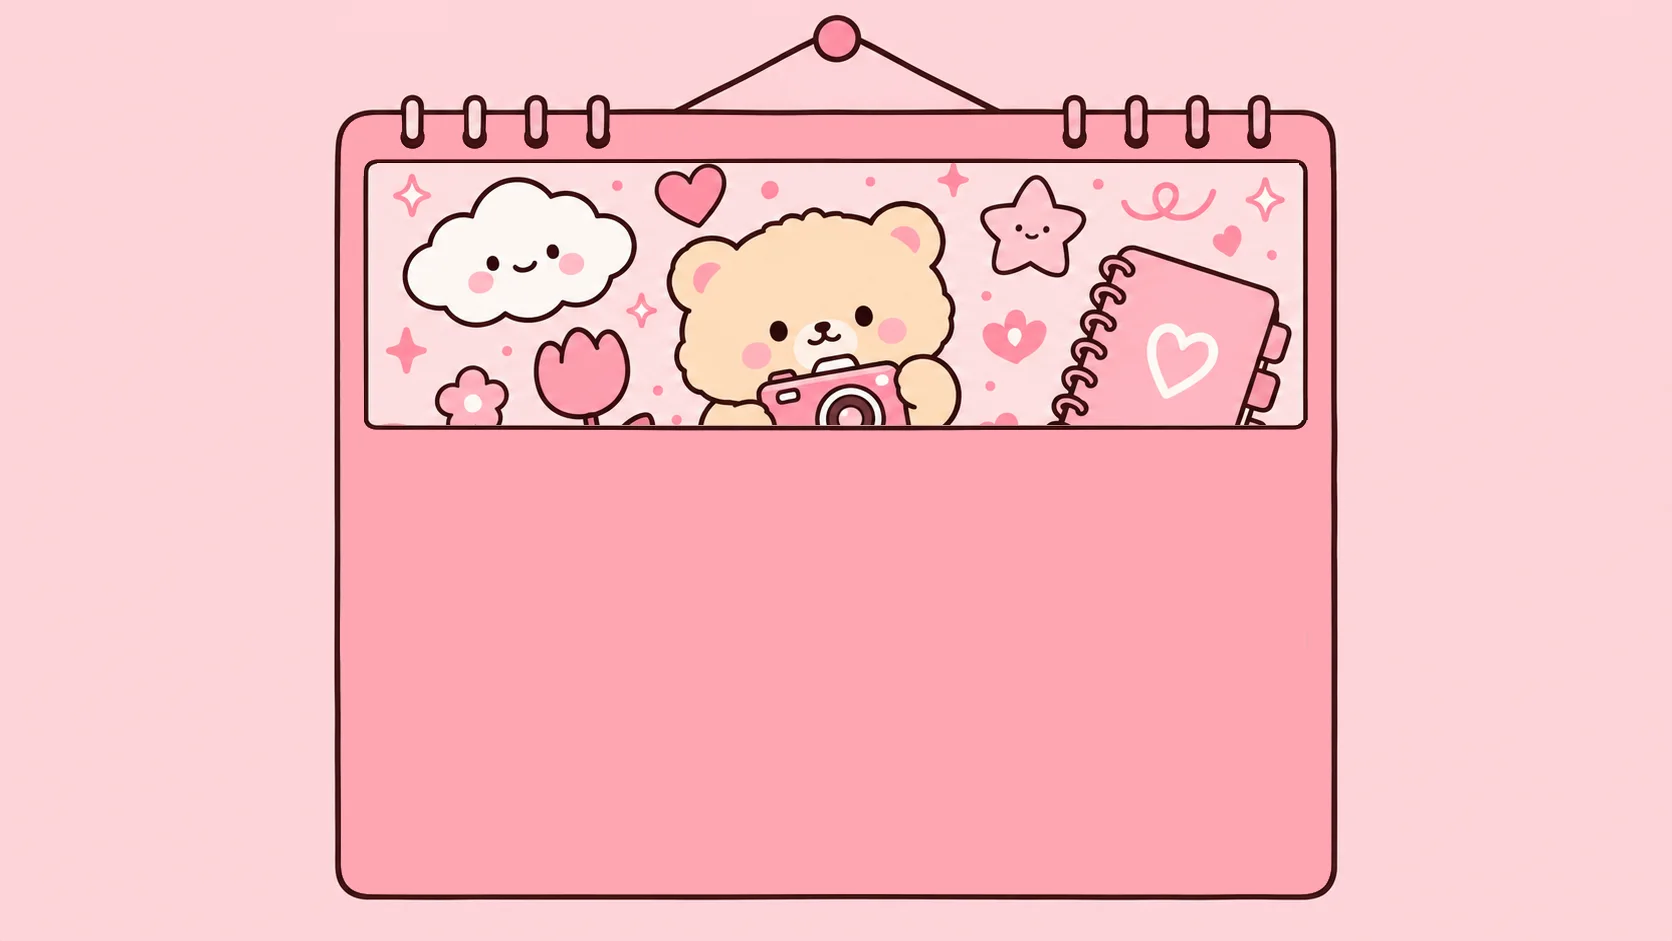
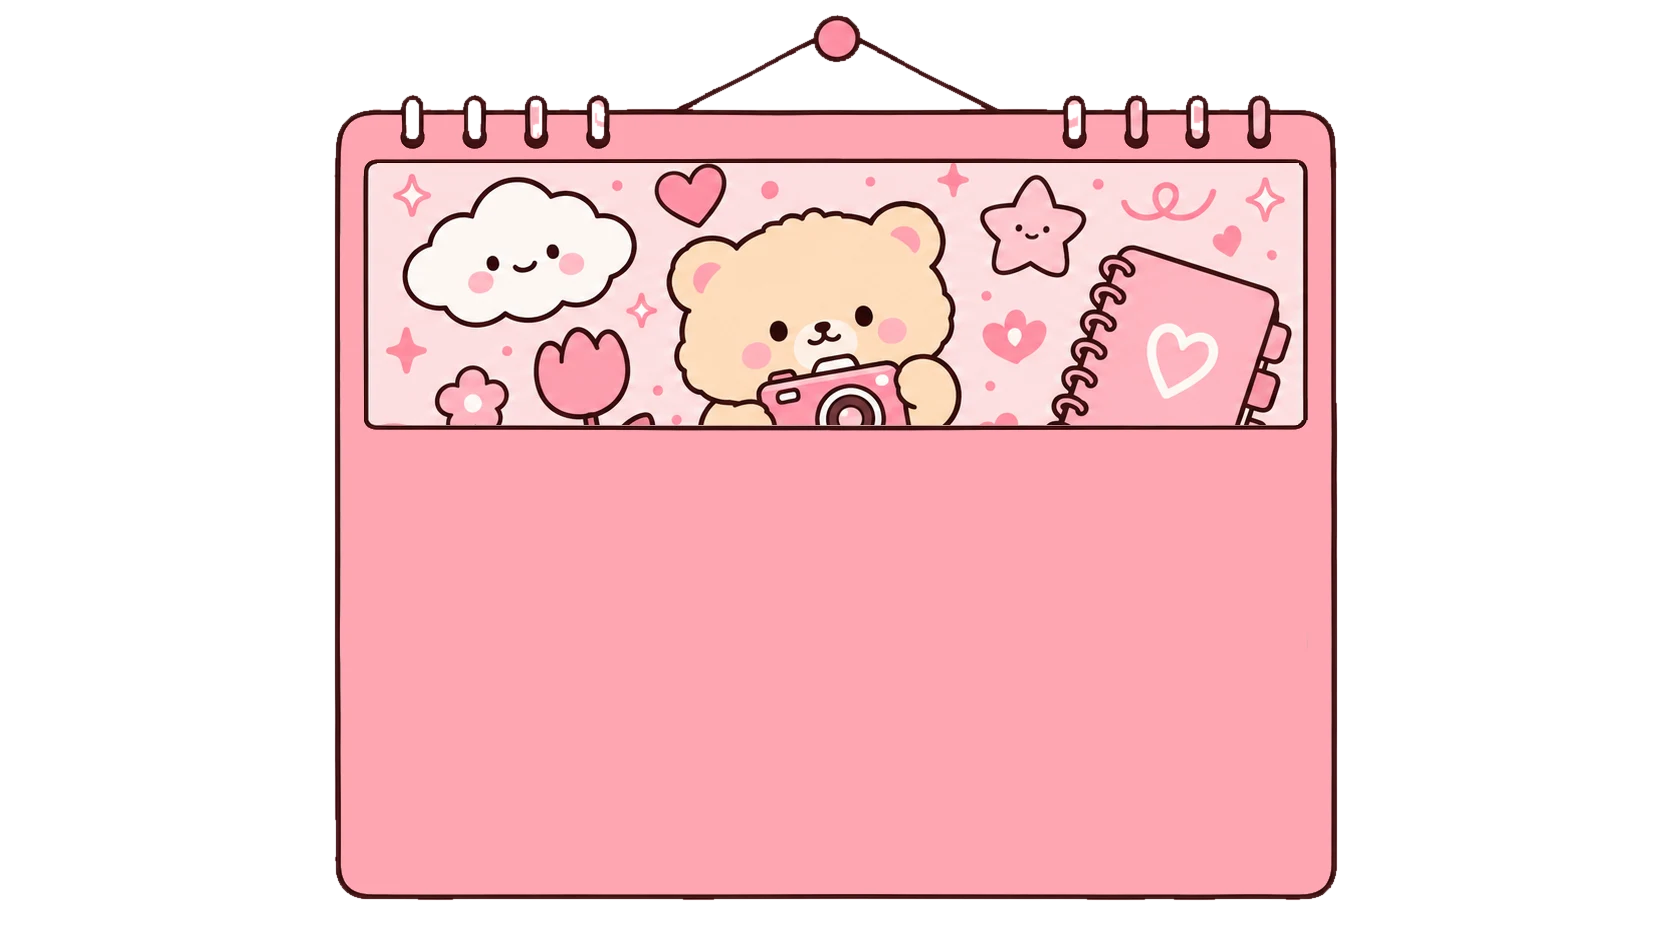
Add files via upload

diff --git a/index.html b/index.html
@@ -18,14 +18,14 @@
     <!-- html2canvas (PNG 저장용) -->
     <script src="https://cdnjs.cloudflare.com/ajax/libs/html2canvas/1.4.1/html2canvas.min.js"></script>
 
-    <script src="js/features.js?v=20261009-998"></script>   <!-- 🔓 기능 공개 스위치 (다른 것보다 먼저) -->
-    <script src="js/util.js?v=20261009-998"></script>   <!-- 🧰 공용 도구 (htmlEsc · josa · lsGet · lsSet) -->
+    <script src="js/features.js?v=20261009-999"></script>   <!-- 🔓 기능 공개 스위치 (다른 것보다 먼저) -->
+    <script src="js/util.js?v=20261009-999"></script>   <!-- 🧰 공용 도구 (htmlEsc · josa · lsGet · lsSet) -->
     <link rel="preload" as="image" href="img/gate-wide.webp?v=20261009-819" media="(min-aspect-ratio: 1/1)">   <!-- 🚪 로그인 문 그림을 먼저 받아요 (켤 때 바탕색만 잠깐 보이는 것 줄이기 · 도련 10-29) -->
     <link rel="preload" as="image" href="img/gate-tall.webp?v=20261009-819" media="(max-aspect-ratio: 1/1)">
-    <link rel="stylesheet" href="css/style.css?v=20261009-998">
-    <link rel="stylesheet" href="css/dakku.css?v=20261009-998">
-    <link rel="stylesheet" href="css/anime.css?v=20261009-998">
-    <link rel="stylesheet" href="css/calroom.css?v=20261009-998">   <!-- 📅 달력 (💻 📲 · js/calroom.js) -->   <!-- 🎬 애니 스타일 (맨 뒤 · js/anime.js) -->
+    <link rel="stylesheet" href="css/style.css?v=20261009-999">
+    <link rel="stylesheet" href="css/dakku.css?v=20261009-999">
+    <link rel="stylesheet" href="css/anime.css?v=20261009-999">
+    <link rel="stylesheet" href="css/calroom.css?v=20261009-999">   <!-- 📅 달력 (💻 📲 · js/calroom.js) -->   <!-- 🎬 애니 스타일 (맨 뒤 · js/anime.js) -->
     <script src="https://accounts.google.com/gsi/client" async defer></script>
 </head>
 <body>
@@ -967,113 +967,113 @@
     </div>
 
     <!-- 📦 코드 파일 (순서 중요 · 업데이트할 때 ?v= 뒤 숫자를 바꾸면 모든 사용자가 새 파일을 받아요) -->
-    <script src="js/localtest.js?v=20261009-998"></script>   <!-- 💻 내 컴퓨터(localhost)에서만 : 로그인 없이 테스트 -->
-    <script src="js/trash.js?v=20261009-998"></script>   <!-- 🗑 휴지통 : 지운 것 · 덮어쓰기 전 모습 30일 -->
-    <script src="js/backup.js?v=20261009-998"></script>   <!-- 📦 백업 · 📥 불러오기 : 말랑달콤 폴더 통째로 zip -->
-    <script src="js/devsave.js?v=20261009-998"></script>   <!-- 📁 로그인 없이 : 이 기기의 말랑달콤 폴더에 저장 -->
-    <script src="js/drive.js?v=20261009-998"></script>
-    <script src="js/desk.js?v=20261009-998"></script>   <!-- 🪑 책상 꾸미기 (💻 PC · 아이패드만) -->
-    <script src="js/deskpaint.js?v=20261009-998"></script>
-    <script src="js/deskcustom.js?v=20261009-998"></script>   <!-- 🎨 소품 꾸미기 창 (색칠 + 불빛 · 숫자 · 알람 · 사진 · 누르는 곳) -->   <!-- 🎨 책상 소품 꾸미기 (칠하기 · 이미지 붙이기) -->
-    <script src="js/coll.js?v=20261009-998"></script>
-    <script src="js/sound.js?v=20261009-998"></script>
-    <script src="js/app.js?v=20261009-998"></script>
-    <script src="js/page.js?v=20261009-998"></script>
-    <script src="js/elements.js?v=20261009-998"></script>
-    <script src="js/tapmenu.js?v=20261009-998"></script>
-    <script src="js/settings.js?v=20261009-998"></script>
-    <script src="js/patterns.js?v=20261009-998"></script>
+    <script src="js/localtest.js?v=20261009-999"></script>   <!-- 💻 내 컴퓨터(localhost)에서만 : 로그인 없이 테스트 -->
+    <script src="js/trash.js?v=20261009-999"></script>   <!-- 🗑 휴지통 : 지운 것 · 덮어쓰기 전 모습 30일 -->
+    <script src="js/backup.js?v=20261009-999"></script>   <!-- 📦 백업 · 📥 불러오기 : 말랑달콤 폴더 통째로 zip -->
+    <script src="js/devsave.js?v=20261009-999"></script>   <!-- 📁 로그인 없이 : 이 기기의 말랑달콤 폴더에 저장 -->
+    <script src="js/drive.js?v=20261009-999"></script>
+    <script src="js/desk.js?v=20261009-999"></script>   <!-- 🪑 책상 꾸미기 (💻 PC · 아이패드만) -->
+    <script src="js/deskpaint.js?v=20261009-999"></script>
+    <script src="js/deskcustom.js?v=20261009-999"></script>   <!-- 🎨 소품 꾸미기 창 (색칠 + 불빛 · 숫자 · 알람 · 사진 · 누르는 곳) -->   <!-- 🎨 책상 소품 꾸미기 (칠하기 · 이미지 붙이기) -->
+    <script src="js/coll.js?v=20261009-999"></script>
+    <script src="js/sound.js?v=20261009-999"></script>
+    <script src="js/app.js?v=20261009-999"></script>
+    <script src="js/page.js?v=20261009-999"></script>
+    <script src="js/elements.js?v=20261009-999"></script>
+    <script src="js/tapmenu.js?v=20261009-999"></script>
+    <script src="js/settings.js?v=20261009-999"></script>
+    <script src="js/patterns.js?v=20261009-999"></script>
     <!-- 🌟 카페에서 받아 등록한 사용자 패턴 (pattern-tool.html 로 만들어요 · 없거나 깨져도 다이어리는 정상 동작) -->
     <script src="js/community-patterns.js"></script>
     <!-- 🌟 카페에서 받아 등록한 모두의 스킨 (pattern-tool.html 로 만들어요 · 없거나 깨져도 다이어리는 정상 동작) -->
     <script src="js/community-skins.js"></script>
-    <script src="js/pattern-recipe.js?v=20261009-998"></script>
-    <script src="js/skins.js?v=20261009-998"></script>
-    <script src="js/bin.js?v=20261009-998"></script>   <!-- 🗑 버린 상품 : 휴지통 30일 · 되살리기 · 영구 삭제 (모든 상품 공통) -->
-    <script src="js/dyyear.js?v=20261009-998"></script>
-    <script src="js/bgown.js?v=20261009-998"></script>
-    <script src="js/deskskin.js?v=20261009-998"></script>   <!-- 🧱 벽지 · 🪵 책상 (책상 화면 · 샵 책상 소품 · 소품함) -->   <!-- 🌈 배경지 = 상품 (샵에서 받기 · 보관함 · 버리기) -->   <!-- 📔 기본 다이어리 = 1년짜리 날짜 다이어리 · 해마다 기본상품 샵에서 받기 · 다이어리 보관소 -->
-    <script src="js/dkguide.js?v=20261009-998"></script>   <!-- 🩷 처음 쓰는 사람용 다꾸하는 법 메모 -->
-    <script src="js/dymaker.js?v=20261009-998"></script>
-    <script src="js/pattern-maker.js?v=20261009-998"></script>
-    <script src="js/skinstudio.js?v=20261009-998"></script>
-    <script src="js/theme-skins.js?v=20261009-998"></script>
-    <script src="js/doll-art.js?v=20261009-998"></script>
-    <script src="js/doll-render.js?v=20261009-998"></script>
-    <script src="js/doll-store.js?v=20261009-998"></script>
-    <script src="js/doll-room.js?v=20261009-998"></script>
-    <script src="js/doll-move.js?v=20261009-998"></script>
-    <script src="js/glrun.js?v=20261009-998"></script>
-    <script src="js/char-move.js?v=20261009-998"></script>
-    <script src="js/puppet.js?v=20261009-998"></script>
-    <script src="js/service.js?v=20261009-998"></script>
+    <script src="js/pattern-recipe.js?v=20261009-999"></script>
+    <script src="js/skins.js?v=20261009-999"></script>
+    <script src="js/bin.js?v=20261009-999"></script>   <!-- 🗑 버린 상품 : 휴지통 30일 · 되살리기 · 영구 삭제 (모든 상품 공통) -->
+    <script src="js/dyyear.js?v=20261009-999"></script>
+    <script src="js/bgown.js?v=20261009-999"></script>
+    <script src="js/deskskin.js?v=20261009-999"></script>   <!-- 🧱 벽지 · 🪵 책상 (책상 화면 · 샵 책상 소품 · 소품함) -->   <!-- 🌈 배경지 = 상품 (샵에서 받기 · 보관함 · 버리기) -->   <!-- 📔 기본 다이어리 = 1년짜리 날짜 다이어리 · 해마다 기본상품 샵에서 받기 · 다이어리 보관소 -->
+    <script src="js/dkguide.js?v=20261009-999"></script>   <!-- 🩷 처음 쓰는 사람용 다꾸하는 법 메모 -->
+    <script src="js/dymaker.js?v=20261009-999"></script>
+    <script src="js/pattern-maker.js?v=20261009-999"></script>
+    <script src="js/skinstudio.js?v=20261009-999"></script>
+    <script src="js/theme-skins.js?v=20261009-999"></script>
+    <script src="js/doll-art.js?v=20261009-999"></script>
+    <script src="js/doll-render.js?v=20261009-999"></script>
+    <script src="js/doll-store.js?v=20261009-999"></script>
+    <script src="js/doll-room.js?v=20261009-999"></script>
+    <script src="js/doll-move.js?v=20261009-999"></script>
+    <script src="js/glrun.js?v=20261009-999"></script>
+    <script src="js/char-move.js?v=20261009-999"></script>
+    <script src="js/puppet.js?v=20261009-999"></script>
+    <script src="js/service.js?v=20261009-999"></script>
     <!-- 🎁 랜덤박스 (없어도 다이어리는 정상 동작) -->
-    <script src="js/gacha.js?v=20261009-998"></script>
-    <script src="js/presence.js?v=20261009-998"></script>
-    <script src="js/fbase.js?v=20261009-998"></script>   <!-- 🔥 파이어스토어 연결 (🔔 선물 벨 · 📞 전화기) -->
-    <script src="js/fphone.js?v=20261009-998"></script>   <!-- 📞 반짝이 피처폰 메신저 (로그인 회원끼리) -->
+    <script src="js/gacha.js?v=20261009-999"></script>
+    <script src="js/presence.js?v=20261009-999"></script>
+    <script src="js/fbase.js?v=20261009-999"></script>   <!-- 🔥 파이어스토어 연결 (🔔 선물 벨 · 📞 전화기) -->
+    <script src="js/fphone.js?v=20261009-999"></script>   <!-- 📞 반짝이 피처폰 메신저 (로그인 회원끼리) -->
     <!-- 🎵 배경음악 (없어도 다이어리는 정상 동작) -->
-    <script src="js/bgm.js?v=20261009-998"></script>
+    <script src="js/bgm.js?v=20261009-999"></script>
     <!-- 🔮 포춘카드 (없어도 다이어리는 정상 동작) -->
-    <script src="js/fortune.js?v=20261009-998"></script>
+    <script src="js/fortune.js?v=20261009-999"></script>
     <!-- 🕹 오락실 (없어도 다이어리는 정상 동작) -->
-    <script src="js/arcade.js?v=20261009-998"></script>
-    <script src="js/hof.js?v=20261009-998"></script>
+    <script src="js/arcade.js?v=20261009-999"></script>
+    <script src="js/hof.js?v=20261009-999"></script>
     <!-- 🌙 꿈해몽 (상징 사전 js/dream-data.js 는 꿈해몽을 열 때 불러와요 · 없어도 다이어리는 정상 동작) -->
-    <script src="js/ritual.js?v=20261009-998"></script>
-    <script src="js/dream.js?v=20261009-998"></script>
+    <script src="js/ritual.js?v=20261009-999"></script>
+    <script src="js/dream.js?v=20261009-999"></script>
     <!-- 🎍 토정비결 (음력 계산 js/lib/korean-lunar-calendar.min.js 는 토정비결을 열 때 불러와요 · 없어도 다이어리는 정상 동작) -->
-    <script src="js/tojeong.js?v=20261009-998"></script>
-    <script src="js/plant.js?v=20261009-998"></script>
-    <script src="js/capsule-stickers.js?v=20261009-998"></script>
-    <script src="js/attend.js?v=20261009-998"></script>
-    <script src="js/luck.js?v=20261009-998"></script>
-    <script src="js/question-data.js?v=20261009-998"></script>
-    <script src="js/question.js?v=20261009-998"></script>
-    <script src="js/tape.js?v=20261009-998"></script>
-    <script src="js/paper.js?v=20261009-998"></script>
-    <script src="js/leafpad.js?v=20261009-998"></script>
-    <script src="js/leafmaker.js?v=20261009-998"></script>
-    <script src="js/draw.js?v=20261009-998"></script>
-    <script src="js/pencase.js?v=20261009-998"></script>
-    <script src="js/frame.js?v=20261009-998"></script>
-    <script src="js/season-data.js?v=20261009-998"></script>
-    <script src="js/season.js?v=20261009-998"></script>
-    <script src="js/lock.js?v=20261009-998"></script>
-    <script src="js/cycle.js?v=20261009-998"></script>
-    <script src="js/month.js?v=20261009-998"></script>
-    <script src="js/stamp.js?v=20261009-998"></script>
-    <script src="js/search.js?v=20261009-998"></script>
-    <script src="js/dday.js?v=20261009-998"></script>
-    <script src="js/calroom.js?v=20261009-998"></script>   <!-- 📅 달력 : 출석 · 생리 · D-day 한 장 (💻 📲) -->
-    <script src="js/show.js?v=20261009-998"></script>
-    <script src="js/press.js?v=20261009-998"></script>
-    <script src="js/photobooth.js?v=20261009-998"></script>
-    <script src="js/stickermaker.js?v=20261009-998"></script>
-    <script src="js/stickerpeel.js?v=20261009-998"></script>
-    <script src="js/stkedit.js?v=20261009-998"></script>   <!-- 🎨 스티커 다듬기 : 씰 종이에서 떼기 전에 색 · 뒤집기 · 자르기 · 지우개 · 글씨 · 반짝이 -->
-    <script src="js/stkcut.js?v=20261009-998"></script>   <!-- ✂ 스티커 자르기 : 꾹 누르기 메뉴 → 스티커 칼로 가로질러 그어 두 조각 -->
-    <script src="js/ruler.js?v=20261009-998"></script>   <!-- 📏 자 : 연필꽂이에서 뽑아 페이지에 깔아 둬요 · 칼 · 색연필을 대면 반듯하게 · 진짜 cm -->
-    <script src="js/piecebag.js?v=20261009-998"></script>
-    <script src="js/dakku.js?v=20261009-998"></script>
-    <script src="js/papermaker.js?v=20261009-998"></script>
-    <script src="js/stk-basic.js?v=20261009-998"></script>
-    <script src="js/peelfx.js?v=20261009-998"></script>
-    <script src="js/tapemaker.js?v=20261009-998"></script>
-    <script src="js/sharebox.js?v=20261009-998"></script>
-    <script src="js/namematch.js?v=20261009-998"></script>
-    <script src="js/psytest-data.js?v=20261009-998"></script>
-    <script src="js/psytest.js?v=20261009-998"></script>
-    <script src="js/letter.js?v=20261009-998"></script>
-    <script src="js/install.js?v=20261009-998"></script>
-    <script src="js/piggy.js?v=20261009-998"></script>
-    <script src="js/wall.js?v=20261009-998"></script>
-    <script src="js/arrival.js?v=20261009-998"></script>
-    <script src="js/own.js?v=20261009-998"></script>   <!-- 🎒 유한 스티커 : 내 종이 저장 · 한 번 쓰면 영원히 사라져요 -->
-    <script src="js/basket.js?v=20261009-998"></script>   <!-- 🧺 내 바구니 · 🏪 기본상품 샵 -->
-    <script src="js/itemshare.js?v=20261009-998"></script>   <!-- 📤 공유 파일로 저장 · 📥 불러오기 (받으면 그 계정의 새 1개) -->
-    <script src="js/shopscene.js?v=20261009-998"></script>
-    <script src="js/anime.js?v=20261009-998"></script>   <!-- 🎬 애니 스타일 : SVG 그림을 단색 · 파스텔 선으로 (css/anime.css) -->   <!-- 🏪 기본상품 샵 가게 (문 → 연핑크 → 가게 안) -->
+    <script src="js/tojeong.js?v=20261009-999"></script>
+    <script src="js/plant.js?v=20261009-999"></script>
+    <script src="js/capsule-stickers.js?v=20261009-999"></script>
+    <script src="js/attend.js?v=20261009-999"></script>
+    <script src="js/luck.js?v=20261009-999"></script>
+    <script src="js/question-data.js?v=20261009-999"></script>
+    <script src="js/question.js?v=20261009-999"></script>
+    <script src="js/tape.js?v=20261009-999"></script>
+    <script src="js/paper.js?v=20261009-999"></script>
+    <script src="js/leafpad.js?v=20261009-999"></script>
+    <script src="js/leafmaker.js?v=20261009-999"></script>
+    <script src="js/draw.js?v=20261009-999"></script>
+    <script src="js/pencase.js?v=20261009-999"></script>
+    <script src="js/frame.js?v=20261009-999"></script>
+    <script src="js/season-data.js?v=20261009-999"></script>
+    <script src="js/season.js?v=20261009-999"></script>
+    <script src="js/lock.js?v=20261009-999"></script>
+    <script src="js/cycle.js?v=20261009-999"></script>
+    <script src="js/month.js?v=20261009-999"></script>
+    <script src="js/stamp.js?v=20261009-999"></script>
+    <script src="js/search.js?v=20261009-999"></script>
+    <script src="js/dday.js?v=20261009-999"></script>
+    <script src="js/calroom.js?v=20261009-999"></script>   <!-- 📅 달력 : 출석 · 생리 · D-day 한 장 (💻 📲) -->
+    <script src="js/show.js?v=20261009-999"></script>
+    <script src="js/press.js?v=20261009-999"></script>
+    <script src="js/photobooth.js?v=20261009-999"></script>
+    <script src="js/stickermaker.js?v=20261009-999"></script>
+    <script src="js/stickerpeel.js?v=20261009-999"></script>
+    <script src="js/stkedit.js?v=20261009-999"></script>   <!-- 🎨 스티커 다듬기 : 씰 종이에서 떼기 전에 색 · 뒤집기 · 자르기 · 지우개 · 글씨 · 반짝이 -->
+    <script src="js/stkcut.js?v=20261009-999"></script>   <!-- ✂ 스티커 자르기 : 꾹 누르기 메뉴 → 스티커 칼로 가로질러 그어 두 조각 -->
+    <script src="js/ruler.js?v=20261009-999"></script>   <!-- 📏 자 : 연필꽂이에서 뽑아 페이지에 깔아 둬요 · 칼 · 색연필을 대면 반듯하게 · 진짜 cm -->
+    <script src="js/piecebag.js?v=20261009-999"></script>
+    <script src="js/dakku.js?v=20261009-999"></script>
+    <script src="js/papermaker.js?v=20261009-999"></script>
+    <script src="js/stk-basic.js?v=20261009-999"></script>
+    <script src="js/peelfx.js?v=20261009-999"></script>
+    <script src="js/tapemaker.js?v=20261009-999"></script>
+    <script src="js/sharebox.js?v=20261009-999"></script>
+    <script src="js/namematch.js?v=20261009-999"></script>
+    <script src="js/psytest-data.js?v=20261009-999"></script>
+    <script src="js/psytest.js?v=20261009-999"></script>
+    <script src="js/letter.js?v=20261009-999"></script>
+    <script src="js/install.js?v=20261009-999"></script>
+    <script src="js/piggy.js?v=20261009-999"></script>
+    <script src="js/wall.js?v=20261009-999"></script>
+    <script src="js/arrival.js?v=20261009-999"></script>
+    <script src="js/own.js?v=20261009-999"></script>   <!-- 🎒 유한 스티커 : 내 종이 저장 · 한 번 쓰면 영원히 사라져요 -->
+    <script src="js/basket.js?v=20261009-999"></script>   <!-- 🧺 내 바구니 · 🏪 기본상품 샵 -->
+    <script src="js/itemshare.js?v=20261009-999"></script>   <!-- 📤 공유 파일로 저장 · 📥 불러오기 (받으면 그 계정의 새 1개) -->
+    <script src="js/shopscene.js?v=20261009-999"></script>
+    <script src="js/anime.js?v=20261009-999"></script>   <!-- 🎬 애니 스타일 : SVG 그림을 단색 · 파스텔 선으로 (css/anime.css) -->   <!-- 🏪 기본상품 샵 가게 (문 → 연핑크 → 가게 안) -->
 
     <!-- 🛡 파일 누락 확인 : 하나라도 못 읽었으면 다이어리를 시작하지 않아서 잘못된 저장을 막아요 -->
     <script>

diff --git a/css/calroom.css b/css/calroom.css
@@ -1,10 +1,10 @@
 /* 📅 달력 (도련 10-31 · js/calroom.js) : 💻 📲 만 · 그림 1672 × 941 을 화면에 맞게 줄여요 · 양옆 = 원래 창(출석 · 생리 · D-day)의 부분을 옮겨 와요 */
-.cr-room { position: fixed; inset: 0; z-index: 1500; display: none; background: #fdd4d8; overflow: hidden; color: #5b3240; }
+.cr-room { position: fixed; inset: 0; z-index: 1500; display: none; background: repeating-linear-gradient(90deg, #fff8f1 0 26px, #fbeee6 26px 52px); overflow: hidden; color: #5b3240; }   /* 🧱 크림 스트라이프 벽지 = 화면 전체 (도련 10-31 · 달력 그림은 바탕을 떼어 낸 것) */
 .cr-room.show { display: block; animation: crIn .25s ease both; }
 @keyframes crIn { from { opacity: 0; } }
 body.cal-on .desk-top-r { display: none; }
 .cr-stage { position: absolute; left: 0; top: 0; width: 1672px; height: 941px; transform-origin: 0 0; }
-.cr-bg { position: absolute; inset: 0; width: 1672px; height: 941px; pointer-events: none; user-select: none; }
+.cr-bg { position: absolute; inset: 0; width: 1672px; height: 941px; pointer-events: none; user-select: none; filter: drop-shadow(0 14px 16px rgba(90, 60, 50, .22)); }   /* 벽에 걸린 그림자 */
 .cr-room button { font-family: inherit; cursor: pointer; }
 
 /* 제목 · 달 넘기기 (달력 위 띠) */

diff --git a/js/calroom.js b/js/calroom.js
@@ -22,7 +22,7 @@
         function crBuild() {
             let el = crq('calRoom'); if (el) return el;
             el = document.createElement('div'); el.id = 'calRoom'; el.className = 'cr-room';
-            el.innerHTML = `<div class="cr-stage" id="crStage"><img class="cr-bg" src="img/cal-room.webp?v=20261009-997" alt="" draggable="false">
+            el.innerHTML = `<div class="cr-stage" id="crStage"><img class="cr-bg" src="img/cal-room.webp?v=20261009-999" alt="" draggable="false">
                 <div class="cr-ttl"><button type="button" class="cr-nav" onclick="crMove(-1)" aria-label="지난달">‹</button><span id="crTitle"></span><button type="button" class="cr-nav" onclick="crMove(1)" aria-label="다음 달">›</button></div>
                 <div class="cr-grid" id="crGrid"></div>
                 <div class="cr-side cr-l">
